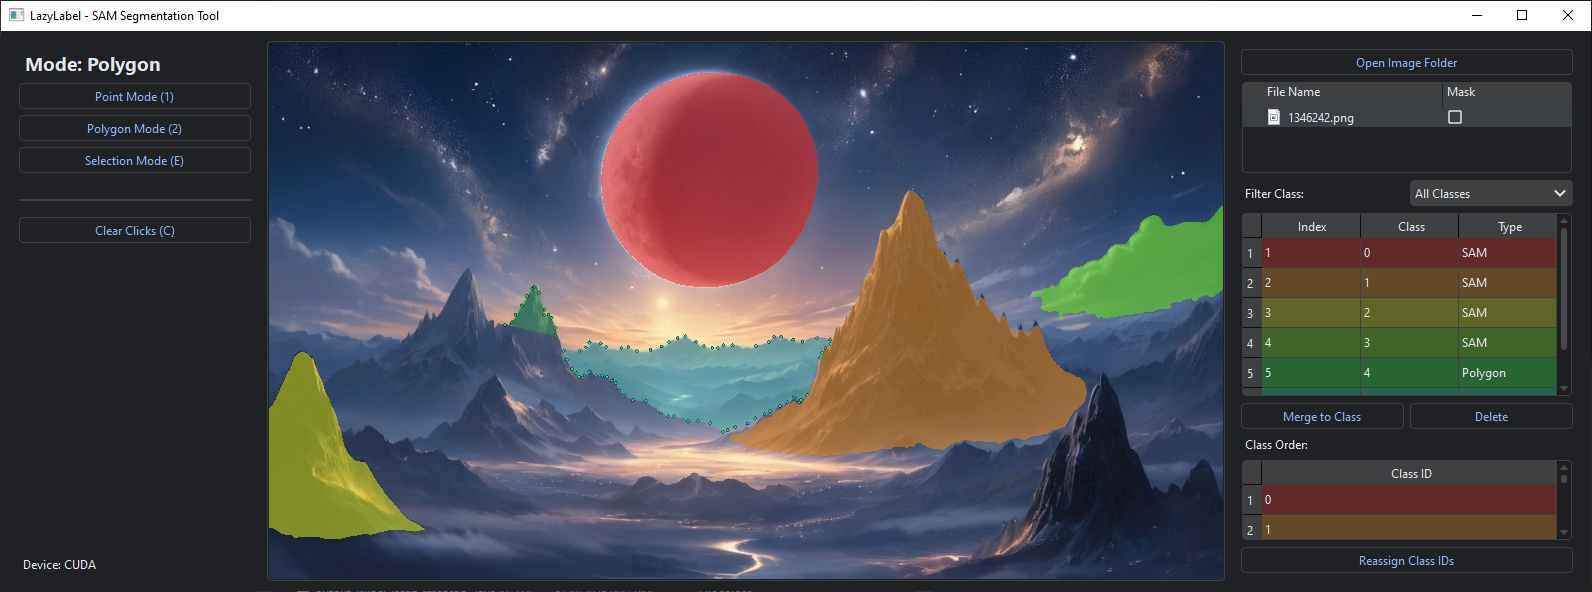
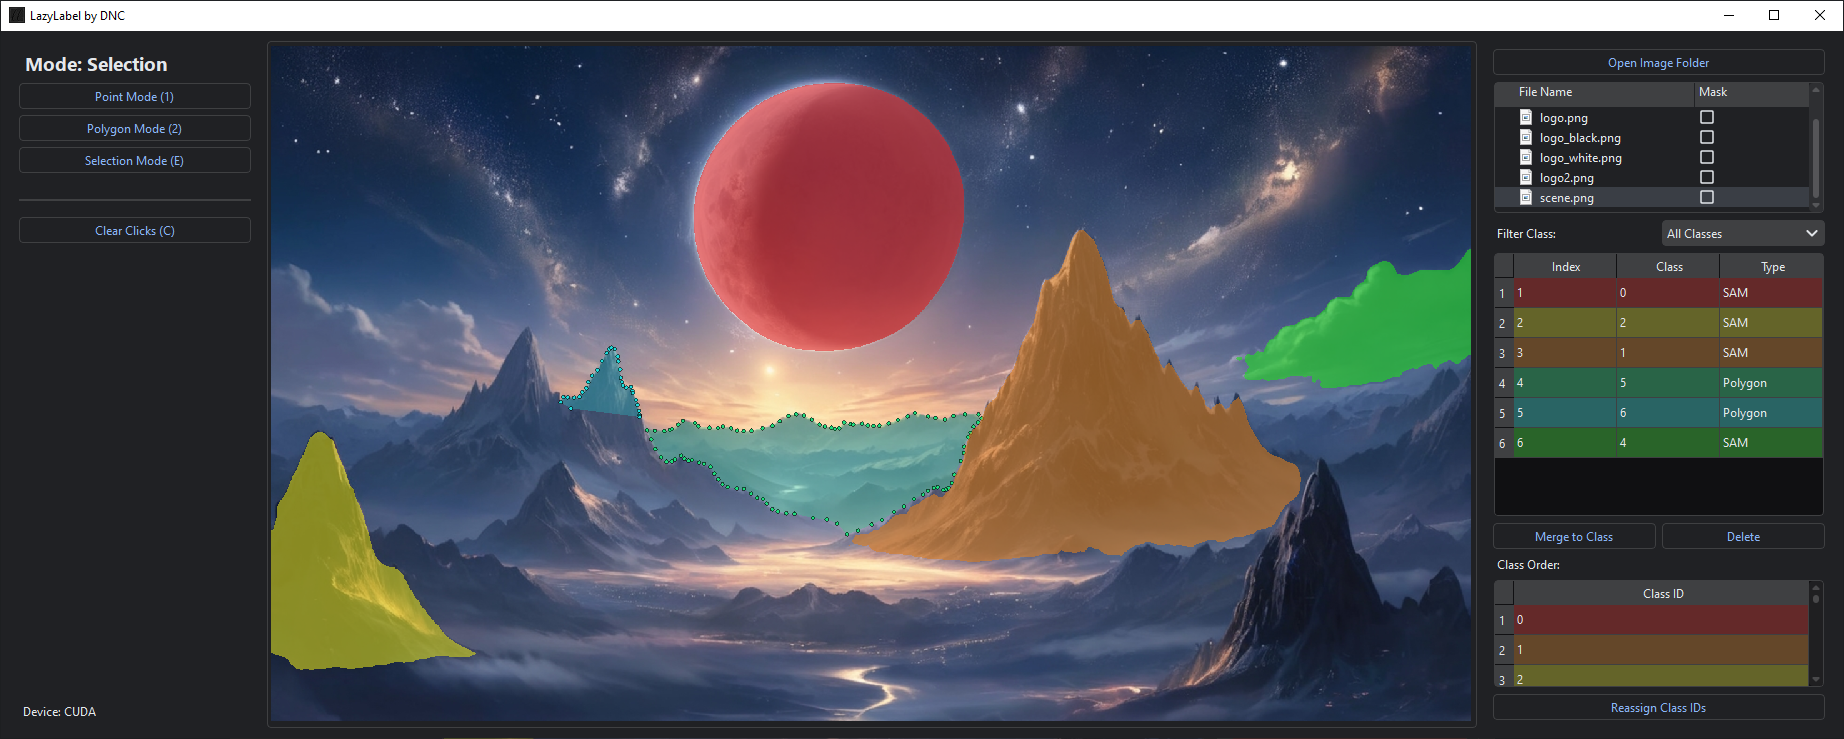
image update

diff --git a/main.py b/main.py
@@ -16,7 +16,7 @@ from PyQt6.QtWidgets import (
     QGraphicsPolygonItem,
     QTableWidgetSelectionRange,
 )
-from PyQt6.QtGui import QPixmap, QColor, QPen, QBrush, QPolygonF
+from PyQt6.QtGui import QPixmap, QColor, QPen, QBrush, QPolygonF, QIcon
 from PyQt6.QtCore import Qt, QPointF
 from photo_viewer import PhotoViewer
 from sam_model import SamModel
@@ -32,7 +32,14 @@ from numeric_table_widget_item import NumericTableWidgetItem
 class MainWindow(QMainWindow):
     def __init__(self):
         super().__init__()
-        self.setWindowTitle("LazyLabel")
+        self.setWindowTitle("LazyLabel by DNC")
+
+        icon_path = os.path.join(
+            os.path.dirname(__file__), "demo_pictures", "logo2.png"
+        )
+        if os.path.exists(icon_path):
+            self.setWindowIcon(QIcon(icon_path))
+
         self.setGeometry(50, 50, 1600, 900)
 
         self.sam_model = SamModel(model_type="vit_h", model_path="sam_vit_h_4b8939.pth")
@@ -165,9 +172,7 @@ class MainWindow(QMainWindow):
         if not index.isValid():
             return
         path = self.file_model.filePath(index)
-        if os.path.isfile(path) and path.lower().endswith(
-            (".png", ".jpg", ".jpeg", ".tiff")
-        ):
+        if os.path.isfile(path) and path.lower().endswith((".png", ".jpg", ".jpeg")):
             self.current_image_path = path
             pixmap = QPixmap(self.current_image_path)
             if not pixmap.isNull():
@@ -474,7 +479,6 @@ class MainWindow(QMainWindow):
         selected_indices = self.get_selected_segment_indices()
         table.clearContents()
         table.setRowCount(0)
-
         filter_text = self.right_panel.class_filter_combo.currentText()
         show_all = filter_text == "All Classes"
         filter_class_id = -1
@@ -483,12 +487,10 @@ class MainWindow(QMainWindow):
                 filter_class_id = int(filter_text.split(" ")[1])
             except (ValueError, IndexError):
                 pass
-
         display_segments = []
         for i, seg in enumerate(self.segments):
             if show_all or seg.get("class_id") == filter_class_id:
                 display_segments.append((i, seg))
-
         table.setRowCount(len(display_segments))
         hue_map = {}
         for row, (original_index, seg) in enumerate(display_segments):
@@ -498,21 +500,17 @@ class MainWindow(QMainWindow):
                     int((class_id * 360 / (self.next_class_id + 5))) % 360
                 )
             color = QColor.fromHsv(hue_map[class_id], 150, 100)
-
             index_item = NumericTableWidgetItem(str(original_index + 1))
             class_item = NumericTableWidgetItem(str(class_id))
             type_item = QTableWidgetItem(seg["type"])
-
             index_item.setFlags(index_item.flags() & ~Qt.ItemFlag.ItemIsEditable)
             type_item.setFlags(type_item.flags() & ~Qt.ItemFlag.ItemIsEditable)
             index_item.setData(Qt.ItemDataRole.UserRole, original_index)
-
             table.setItem(row, 0, index_item)
             table.setItem(row, 1, class_item)
             table.setItem(row, 2, type_item)
             for col in range(3):
                 table.item(row, col).setBackground(QBrush(color))
-
         for row in range(table.rowCount()):
             if table.item(row, 0).data(Qt.ItemDataRole.UserRole) in selected_indices:
                 table.selectRow(row)
